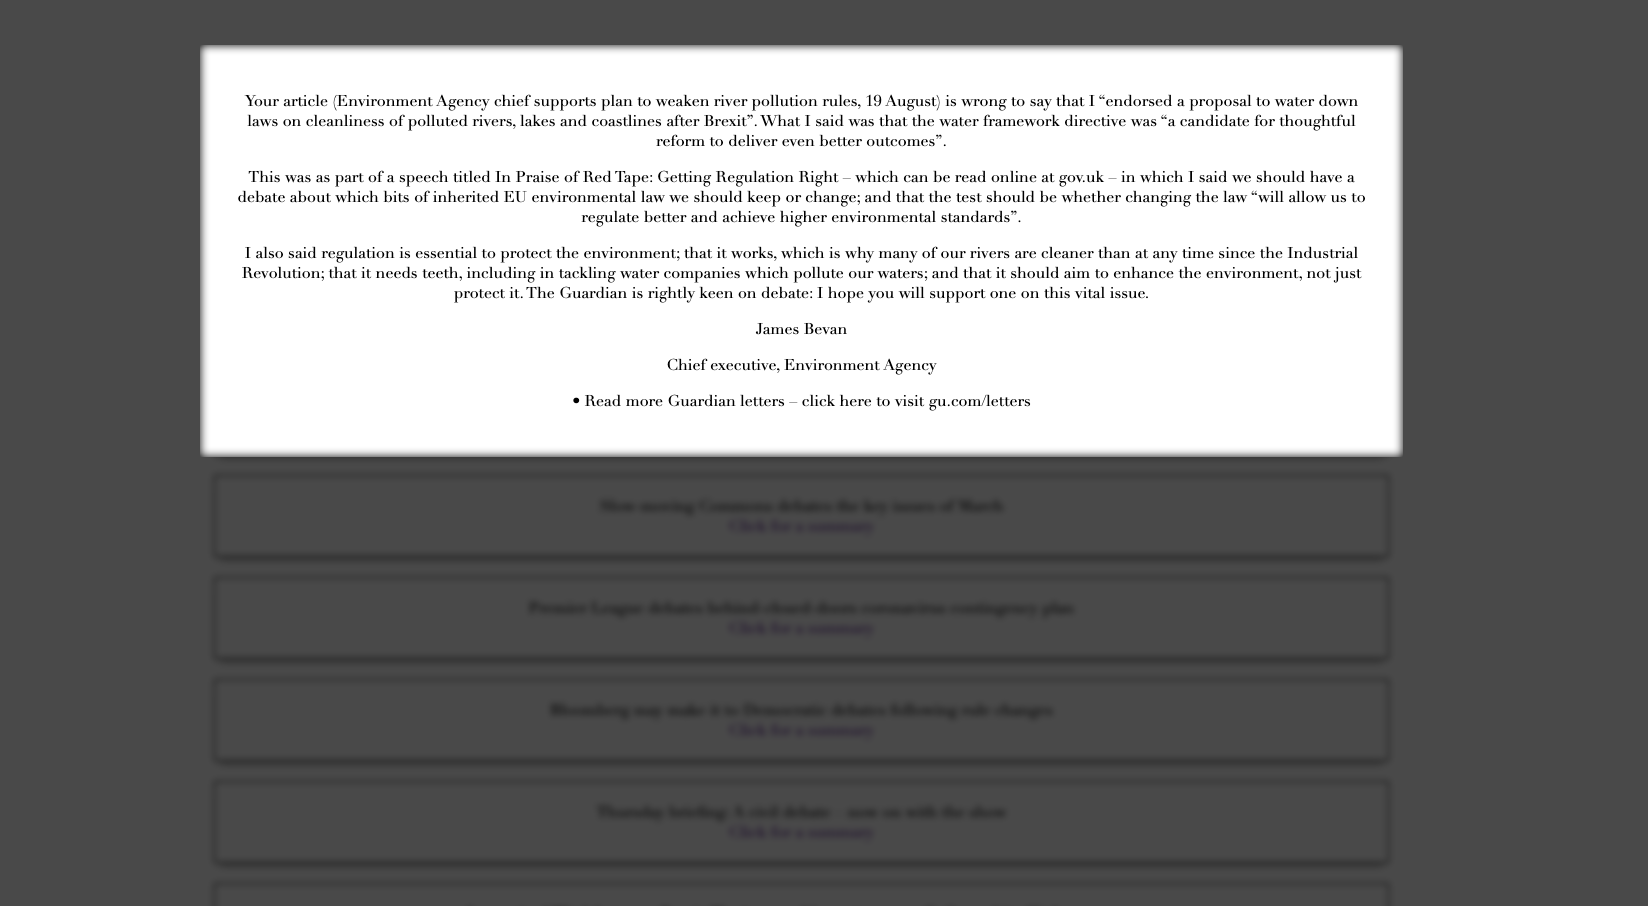
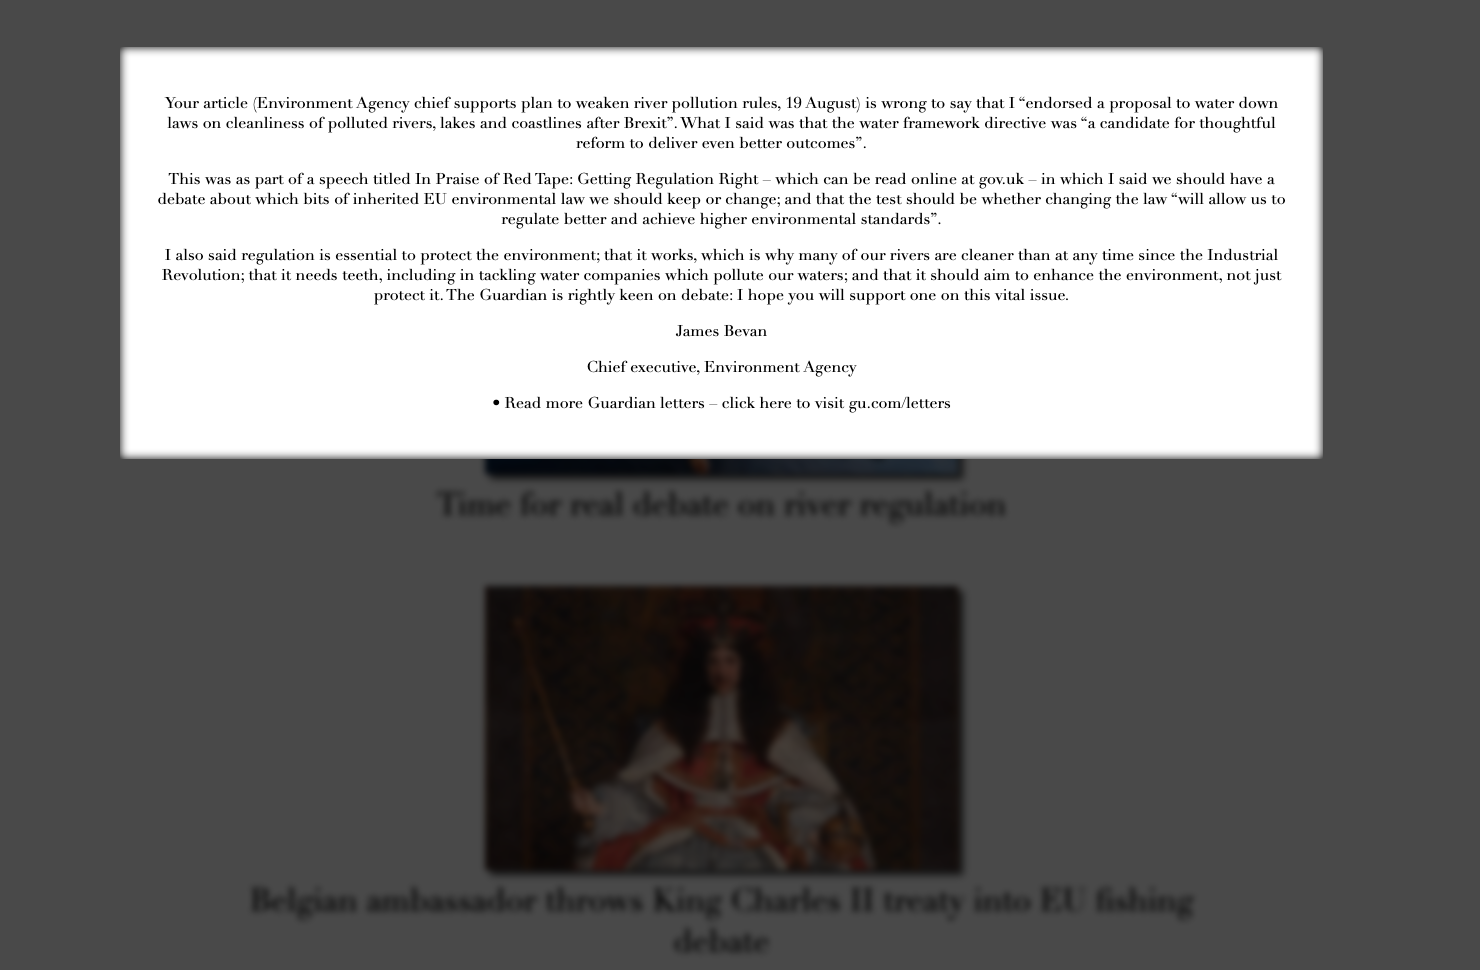
last user stories and updated readme

diff --git a/interface.js b/interface.js
@@ -1,6 +1,6 @@
 
-fetch('https://content.guardianapis.com/search?q=debate&tag=politics/politics&from-date=2014-01-01&api-key=test')
-// fetch('http://news-summary-api.herokuapp.com/guardian?apiRequestUrl=http://content.guardianapis.com/search?q=debates')
+fetch('https://content.guardianapis.com/search?q=debate&tag=politics/politics&show-fields=thumbnail&api-key=test')
+// fetch('http://news-summary-api.herokuapp.com/guardian?apiRequestUrl=http://content.guardianapis.com/search?q=debates&show-fields=thumbnail')
   .then(response => {
       const contentType = response.headers.get('content-type');
       if (!contentType || !contentType.includes('application/json')) {
@@ -16,13 +16,14 @@ fetch('https://content.guardianapis.com/search?q=debate&tag=politics/politics&fr
       let headline = newsArray[i].webTitle
       let linkId = `summary-link${i+1}`;
       linkArray.push(linkId);
+      let thumbnail = newsArray[i].fields.thumbnail
       let webUrl = newsArray[i].webUrl
       formattedLink = `
       <section id='news-story'>
-        <a id='news-story${i+1}' href='${webUrl}'>${headline}</a>
-        <div>
-          <a id=${linkId} href=''>Click for a summary</a>
+        <div class='news-story'>
+          <img src=${thumbnail} id=${linkId} href=''>
         </div>
+        <a id='news-story${i+1}' href='${webUrl}'>${headline}</a>
       </section><br>`;
       newsContainer.innerHTML += formattedLink;
     }

diff --git a/public/indexstyle.css b/public/indexstyle.css
@@ -12,9 +12,32 @@ h1 {
   margin-bottom: 0px
 }
 
-img {
-  width: 50%
+#news-story {
+  padding: 20px;
+  width: 50%;
+  position: relative;
+  margin: auto;
+  left: 0;
+  right: 0;
+  top: 50px;
+  bottom: 50px;
+  font-size: 200%
 }
+
+img {
+  width: 50%;
+  text-align: left;
+  box-shadow: 5px 5px 5px 0px rgba(0,0,0,0.75);
+  position: relative;
+  transition: all 1s;
+}
+
+img:hover {
+  cursor: pointer;
+  transform: scale(1.05);
+
+}
+
 a:link {
   text-decoration: none;
   color: black;
@@ -45,20 +68,6 @@ a:active {
   z-index: 2;
   cursor: pointer;
   backdrop-filter: blur(3px);
-}
-
-#news-story {
-  padding: 20px;
-  width: 60%;
-  box-shadow: 0 8px 6px -6px #888888;
-  border: solid;
-  border-width: thin;
-  position: relative;
-  margin: auto;
-  left: 0;
-  right: 0;
-  top: 50px;
-  bottom: 50px;
 }
 
 #story-summary {

diff --git a/index.html b/index.html
@@ -7,7 +7,7 @@
   </head>
 
   <body>
-    <h1>Guardian News Headlines</h1>
+    <h1>Pocket News</h1>
     <div id="overlay">
       <div id="story-summary">Overlay Text</div>
     </div>

diff --git a/README.md b/README.md
@@ -2,9 +2,8 @@
 
 Week 7 - weekend challenge building a front end web app using only Javascript, HTML and CSS.  
 The app fetches the latest news stories from the Guardian API and returns the latest ten headlines.  
-Click on a headline to visit the full story on the Guardian website, or view a summary in a popup.
-
-![homepage](./public/homepage.png)
+Click on a headline to visit the full story on the Guardian website, or click the image for a popup summary.
+![summary](./public/summary.png)
 
 ## User Stories Implemented
 
@@ -35,7 +34,12 @@ As a busy politician
 I can read the site comfortably on my phone
 Just in case my laptop breaks
 ```
-![summary](./public/summary.png)
+![homepage](./public/homepage.png)
+```
+As a busy politician
+I can see a picture to illustrate each news article when I browse headlines
+So that I have something nice to look at
+```
 
 ## SetUp
 
@@ -59,18 +63,3 @@ Visit [http://127.0.0.1:8080/](http://127.0.0.1:8080/) in your browser.
 * HTML & CSS
 * [http-server](https://www.npmjs.com/package/http-server)
 * [Makers News Summary API](https://github.com/makersacademy/news-summary-api)
-
-
-## User Stories Not Implemented
-
-```
-As a busy politician
-I can see a picture to illustrate each news article when I browse headlines
-So that I have something nice to look at
-```
-
-```
-As a busy politician
-I can see whizzy animations in the app
-To make my news reading more fun
-```
